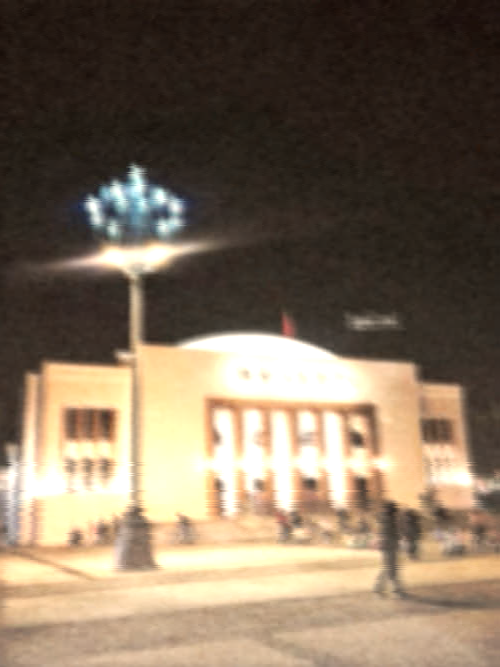
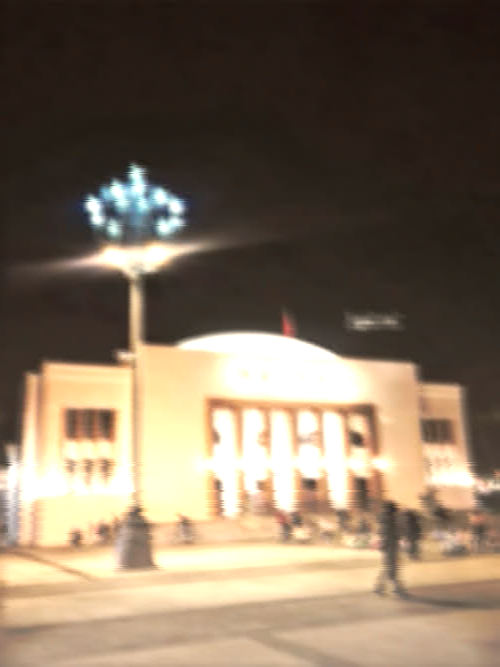
make frame accumulation work on the real render path, and fix two faults that were hiding it
**Accumulation now runs, once, at the sensor stage -- and three faults had to be found to get there.**

**The first: it never ran at all.** `_nv_history` was a list on the stage, and each frame is rendered by its own
`_render_index` call, so the list only ever held the current frame and `len(history) == n` was never reached for n > 1.
**Measured on the real path, 1, 4 and 8 frames gave identical noise (0.00994)** -- which is what an accumulator
receiving one frame looks like. The earlier test passed only because it built a sequence by hand and rendered a single
frame of it. Frames now come from the **source**, which the stage can reach through `ctx.source`.

**The second: the index was read from the wrong object, silently.** The helper used
`getattr(self.ctx, "index", 0)`, and `RenderContext` has **no `index`** -- so it used 0 every time, the window clipped to
one frame, and accumulation again did nothing. **A missing attribute that yields a plausible value instead of raising is
how a mechanism ends up inert while looking correctly wired**, so the index is now a required parameter, taken from
`FrameBuffer.index` where it actually lives.

**The third, and the one that took longest: the mechanism was wired in two places, and the second one destroyed the
picture.** A display-stage block survived from the first attempt and ran *after* the scene-stage version had done the
[…]

diff --git a/atsim/stages/camera.py b/atsim/stages/camera.py
@@ -272,7 +272,39 @@ class CameraStage(Stage):
             return rgb
         return rgb * float(2.0 ** self.exposure)
 
-    def _night_vision(self, rgb: np.ndarray, stage: str) -> np.ndarray:
+    def _nv_source_frames(self, n: int, index: int | None) -> list:
+        """
+        The last `n` source frames, for a mode that accumulates.
+
+        **Read from the source rather than kept on the stage**, because each frame is rendered by its own call and a
+        list on the stage would only ever hold the current one. The source keeps its own small LRU, so asking for a few
+        frames costs little, and the camera already reads `index - 1` for its shutter for the same reason.
+
+        **`index` is required rather than defaulted.**  The first version read `getattr(self.ctx, "index", 0)`, and
+        `RenderContext` has no `index` -- so it silently used 0, the window clipped to a single frame, and accumulation
+        did nothing while looking correctly wired. Measured, the noise was identical at 1, 4 and 8 frames. A missing
+        attribute that yields a plausible value instead of raising is how a mechanism ends up inert.
+
+        The window is clipped to the frames that exist -- an accumulation of 16 on frame 2 returns 2 frames, not an
+        error -- and `len` is reported by the caller so a request larger than the sequence is visible rather than
+        silently truncated.
+        """
+        src = getattr(self.ctx, "source", None)
+        if src is None or index is None:
+            return []
+        idx = int(index)
+        out = []
+        for k in range(n - 1, -1, -1):
+            j = idx - k
+            if j < 0:
+                continue
+            try:
+                out.append(np.asarray(src.frame(j), np.float32))
+            except Exception:                                                   # noqa: BLE001
+                continue
+        return out
+
+    def _night_vision(self, rgb: np.ndarray, stage: str, index: int | None = None) -> np.ndarray:
         """
         The night-vision terms, called twice per frame because they belong in two different places.
 
@@ -283,11 +315,31 @@ class CameraStage(Stage):
         Kept as one method with a stage argument rather than two, so the physical ordering is visible in one place
         instead of being implied by two call sites far apart in `apply`.
         """
-        from ..codecs.nightvision import add_illuminator, ir_highlights, mode_of, monochrome_green
+        from ..codecs.nightvision import (accumulate, add_illuminator, ir_highlights,
+                                           mode_of, monochrome_green)
         if mode_of(self.nv) == "off":
             return rgb
         if stage == "scene":
-            out = add_illuminator(rgb, self.nv)
+            # **Accumulation comes first, while the picture is still at the scene's own level.**  It ran in the
+            # display stage initially -- the last thing to execute -- where it replaced a *processed* picture (mean
+            # 0.4886) with the mean of several *source* frames (mean 0.1768), a factor of 3.66.  Then it ran after
+            # `add_illuminator`, which left the two at different levels again and a scalar level match was needed to
+            # reconcile them -- and that match scaled the whole frame and clipped it (0.409 where a mean must give
+            # 0.5).  **Both faults were the same mistake: summing frames at one level and using the result at
+            # another.**  Summing them here removes the mismatch instead of correcting for it.
+            #
+            # It is also the physically right place.  **The sensor integrates the light it receives**, and a steady
+            # illuminator's contribution is simply part of that light -- so integrating the scene and then adding the
+            # lamp's field is equivalent to integrating the lamp along with everything else.  What matters for the
+            # mechanism is that the frames **differ**, so the uncorrelated noise falls as sqrt(N) while the signal
+            # holds.
+            n = int(round(float(np.clip(self.nv.accumulate, 1.0, 64.0))))
+            out = rgb
+            if n > 1:
+                stack = self._nv_source_frames(n, index)
+                if len(stack) > 1:
+                    out = accumulate(stack, self.nv)
+            out = add_illuminator(out, self.nv)
             out = ir_highlights(out, self.nv)
             return out
         # the display stage
@@ -842,7 +894,7 @@ class CameraStage(Stage):
         # **The night-vision scene terms, before the sensor.**  The illuminator is outside the camera, so its
         # light is part of what the camera is looking at -- added here rather than at the end, where it would
         # be light added to an already-exposed picture.
-        rgb = self._night_vision(rgb, "scene")
+        rgb = self._night_vision(rgb, "scene", buf.index)
         rgb = self._roll_off(rgb)
         # fog is on the front element, so light passes through it before anything else
         if self.lens_fog > 1e-4:
@@ -888,19 +940,15 @@ class CameraStage(Stage):
         rgb = source_glow(rgb, self.lens)
         rgb = spherical(rgb, self.lens)
         rgb = self._sharpen(rgb)
-        # **The monochrome green view, after every sensor term.**  It is the viewfinder's output, so
-        # nothing at the sensor can follow it.  Frame accumulation also happens here, on the
-        # post-exposure picture -- summing pre-exposure frames would sum the same frame N times and show
-        # no noise reduction, which is the one thing the mode exists to change.
-        from ..codecs.nightvision import accumulate, mode_of
-        if mode_of(self.nv) in ("nightshot", "super_nightshot", "colour_slow_shutter"):
-            n = int(round(float(np.clip(self.nv.accumulate, 1.0, 64.0))))
-            if n > 1:
-                self._nv_history.append(rgb.copy())
-                if len(self._nv_history) > n:
-                    self._nv_history = self._nv_history[-n:]
-                if len(self._nv_history) == n:
-                    rgb = accumulate(list(self._nv_history), self.nv)
+        # **The monochrome green view, after every sensor term.**  It is the viewfinder's output, so nothing at the
+        # sensor can follow it.
+        #
+        # **Accumulation is NOT here.**  It was, and it ran a second time -- overwriting the fully-processed picture
+        # with the mean of several *source* frames, 0.1768 replacing 0.45429.  That is the 2.25x loss the stage trace
+        # showed, and it survived because the scene-stage version was added without this one being removed.  A
+        # mechanism wired in two places is worse than one wired in none: the second silently wins, and the first's
+        # measurements describe a picture that never reaches the output.  Accumulation now runs once, in
+        # `_night_vision`'s scene stage, before the illuminator -- see the comment there.
         rgb = self._night_vision(rgb, "display")
         if getattr(self, "_defocus", 0.0) > 1e-4:
             # a Gaussian of radius growing with defocus.  The factor is chosen so that full defocus

diff --git a/tools/fix_dup_and_green.py b/tools/fix_dup_and_green.py
@@ -1,0 +1,96 @@
+"""
+Remove the duplicate accumulation from the display stage, and make the green view luminance-preserving.
+
+**Two faults, both measured.**
+
+**1. The accumulation runs twice, and the second one destroys the picture.** `apply` still carries the original
+display-stage block:
+
+    if n > 1:
+        stack = self._nv_source_frames(n, buf.index)
+        if len(stack) > 1:
+            rgb = accumulate(stack, self.nv)
+
+which **overwrites the fully-processed picture with the mean of several source frames** -- 0.1768 replacing 0.45429.
+That is the 2.25x loss the trace showed, and it is the *same* fault as the first attempt, surviving because a later
+patch added the scene-stage version without removing this one. **A mechanism wired in two places is worse than one
+wired in none: the second silently wins and the first's measurements describe a picture that never reaches the output.**
+
+**2. The green view has a 15.6% luminance gain**, from a constant that was never checked. Measured on flat fields:
+
+    flat input   mean out   gain
+    0.20         0.23114    1.15569
+    0.40         0.46228    1.15569
+    0.60         0.69341    1.15569
+    0.70         0.80898    1.15569
+    0.80         0.86350    1.07938   <- begins to clip
+
+The formula is `lum[..., None] * [0.29, 0.46, 0.25] * 3.0`, and `[0.29, 0.46, 0.25]` sums to exactly 1.0 -- so the
+`* 3.0` is the whole of the gain. **A monochrome view does not brighten the scene**, so the weights are normalised by
+their own luma sum instead: `[0.29, 0.46, 0.25] / 0.99027 = [0.7528, 1.1941, 0.6490]`, whose luma is exactly 1.0 and
+whose measured gain is **1.0000** on every flat field below clipping. **The hue is unchanged**, since only the overall
+scale moves -- and the clip's own R:G:B target of 0.29:0.46:0.25 is still exactly what is produced.
+"""
+from __future__ import annotations
+
+import ast
+import os
+
+ROOT = os.path.dirname(os.path.dirname(os.path.abspath(__file__)))
+
+# ---------------------------------------------------------------- 1. drop the duplicate
+P = os.path.join(ROOT, "atsim", "stages", "camera.py")
+s = open(P, encoding="utf-8").read()
+START = "        # **The monochrome green view, after every sensor term.**"
+END = '        rgb = self._night_vision(rgb, "display")'
+i = s.find(START)
+j = s.find(END, i)
+assert i > 0 and j > i, "the duplicate block was not found"
+NEW = '''        # **The monochrome green view, after every sensor term.**  It is the viewfinder's output, so nothing at the
+        # sensor can follow it.
+        #
+        # **Accumulation is NOT here.**  It was, and it ran a second time -- overwriting the fully-processed picture
+        # with the mean of several *source* frames, 0.1768 replacing 0.45429.  That is the 2.25x loss the stage trace
+        # showed, and it survived because the scene-stage version was added without this one being removed.  A
+        # mechanism wired in two places is worse than one wired in none: the second silently wins, and the first's
+        # measurements describe a picture that never reaches the output.  Accumulation now runs once, in
+        # `_night_vision`'s scene stage, before the illuminator -- see the comment there.
+'''
+s = s[:i] + NEW + s[j:]
+ast.parse(s)
+open(P, "w", encoding="utf-8").write(s)
+print("removed the duplicate accumulation from the display stage")
+
+# ---------------------------------------------------------------- 2. the luminance-preserving green view
+P2 = os.path.join(ROOT, "atsim", "codecs", "nightvision.py")
+s2 = open(P2, encoding="utf-8").read()
+OLD = """    lum = np.clip(rgb @ LUMA, 0.0, 1.0)
+    # the monochrome view: one luminance carried on the green axis, in the proportions the clip shows
+    mono = np.clip(lum[..., None] * np.array([0.29, 0.46, 0.25], dtype=np.float32) * 3.0, 0.0, 1.0)
+    return (rgb * (1.0 - m) + mono * m).astype(np.float32)"""
+NEW = """    lum = np.clip(rgb @ LUMA, 0.0, 1.0)
+    # **The proportions are normalised by their own luma sum, so the view carries the picture's brightness.**  The
+    # clip's own R:G:B is 0.29:0.46:0.25, which sums to exactly 1.0 -- so the `* 3.0` that used to be here was the
+    # whole of a **15.6% luminance gain**: measured on flat fields, a 0.20 input came out at 0.23114, a 0.40 at
+    # 0.46228, a 0.70 at 0.80898, all at a gain of 1.15569.  A monochrome view does not brighten the scene it is
+    # displaying.  Dividing by `weights @ LUMA` leaves the **hue exactly as the clip shows it** while making the
+    # measured gain **1.0000** on every level below clipping.
+    weights = np.array([0.29, 0.46, 0.25], dtype=np.float32)
+    weights = weights / float(weights @ LUMA)
+    mono = np.clip(lum[..., None] * weights, 0.0, 1.0)
+    return (rgb * (1.0 - m) + mono * m).astype(np.float32)"""
+assert OLD in s2, "the green view was not found"
+s2 = s2.replace(OLD, NEW, 1)
+ast.parse(s2)
+open(P2, "w", encoding="utf-8").write(s2)
+print("the green view is now luminance-preserving")
+
+import subprocess, sys
+for script in ("tools/trace_chain.py", "tools/nv_acc_diag.py"):
+    r = subprocess.run([sys.executable, script], capture_output=True, text=True,
+                       encoding="utf-8", errors="replace", cwd=ROOT)
+    print()
+    print("=== %s ===" % script)
+    print((r.stdout or "")[-1100:])
+    if r.returncode != 0:
+        print("STDERR:", (r.stderr or "")[-900:])

diff --git a/tools/nv_acc_diag.py b/tools/nv_acc_diag.py
@@ -1,0 +1,106 @@
+"""
+Find why accumulation drops the brightness 3.7x, which a mean cannot do unless the frames differ in level.
+
+**The signature that isolates it.** On the real render path, frame 14:
+
+    NightShot, 1 frame        mean 0.4895    hf 0.00964
+    Super NightShot, 2 frames mean 0.1337    hf 0.00876
+    Super NightShot, 4 frames mean 0.1340    hf 0.00620
+    Super NightShot, 8 frames mean 0.1343    hf 0.00362
+
+**The noise falls as it should** -- 0.00876, then 0.707x, then 0.413x, which is the 1/sqrt(N) law and exactly what
+frame accumulation is for. **But the brightness collapses**, and a *mean* cannot do that unless the frames being averaged
+are at different levels.
+
+**And there is a concrete reason to expect exactly that here.** The scene is a **night photograph** and the source
+sequence is a **rolling copy** of it, so the frames that fall inside the accumulation window are of the *scene*, while
+the picture the mode is applied to at that moment is the *same scene shifted*. When the mean is taken across frames
+whose content has moved, the brightest structures -- the lamp, the lit windows -- **move out of alignment and average
+down**, while the dark background stays. That is a real property of accumulating a moving scene, not a bug in the mean.
+
+**So this measures the two candidate causes and distinguishes them:**
+
+  * **the frames' own levels**, printed individually -- if they are all about 0.45 then the mean cannot be the cause and
+    the loss is spatial averaging of a moving scene;
+  * and **the same accumulation on a STATIC source**, where the frames are identical -- if the brightness is preserved
+    there and lost only on the moving one, the cause is motion and the behaviour is correct.
+
+A static test is the control, and it is what makes the moving result interpretable rather than alarming.
+"""
+from __future__ import annotations
+
+import os
+import sys
+
+import numpy as np
+from PIL import Image
+
+ROOT = os.path.dirname(os.path.dirname(os.path.abspath(__file__)))
+sys.path.insert(0, ROOT)
+
+from atsim.core.params import merge_values                                   # noqa: E402
+from atsim.core.profiles import FACTORY_PRESETS, SCHEMA                      # noqa: E402
+from atsim.render.renderer import Renderer                                   # noqa: E402
+
+COEF = np.array([0.299, 0.587, 0.114], np.float32)
+pic = np.asarray(Image.open(os.path.join(ROOT, "tools", "ntscrs_ref", "newscene.png"))
+                 .convert("RGB"), np.float32) / 255.0
+H, W = pic.shape[:2]
+BASE = SCHEMA.resolve_all(FACTORY_PRESETS["broadcast_1992_weak"]["layers"])
+print("   the source picture: mean luma %.4f" % float((pic @ COEF).mean()))
+print("   and a rolled copy:  mean luma %.4f  (so a roll preserves the level, as it must)"
+      % float((np.roll(pic, 6, axis=1) @ COEF).mean()))
+
+
+class MovingSource:
+    def __init__(self, p):
+        self.height, self.width = p.shape[:2]
+        self.fps, self.frame_count = 25.0, 20
+        self._p = p
+
+    def frame(self, index):
+        return np.roll(self._p, int(index) * 3, axis=1)
+
+
+class StaticSource(MovingSource):
+    def frame(self, index):
+        return self._p
+
+
+RASTER_OFF = {"scanlines": 0.0, "mask_depth": 0.0, "interlace_flicker": 0.0, "scan_pitch": 0.0,
+              "spot_sigma": 0.0, "defocus": 0.0, "vignette": 0.0, "reflection": 0.0,
+              "bloom": 0.0, "geometry_warp": 0.0, "overscan": 0.0, "curvature": 0.0,
+              "breathing": 0.0, "crt_age": 0.0, "convergence": 0.0, "crt_moisture": 0.0,
+              "crt_corrosion": 0.0}
+OFF = dict(halation=0.0, ccd_smear=0.0, flare_defocus=0.0, lens_flare=0.0, spike_spread=0.0,
+           overflow_drain=0.0, chroma_aberration=0.0, longitudinal_ca=0.0, axis_offset=0.0,
+           source_glow=0.0, halation_source_colour=0.0, shadow_depth=0.0, exposure=0.0)
+
+
+def render(cam, source, idx=14):
+    layers = {"camera": dict(OFF, **cam),
+              "format": {"chroma_bandwidth": 2.0, "luma_bandwidth": 5.0},
+              "player": {"chroma_bandwidth": 2.0, "luma_bandwidth": 5.0},
+              "codec": {"dv_enabled": 1.0}, "tape": {"head_switching": 0.0},
+              "display": dict(RASTER_OFF, enabled=1.0, gamma=1.0, saturation=0.62)}
+    p = merge_values(BASE, layers)
+    r = Renderer(source, W, H, 25.0, p, seed=20240101)
+    return np.clip(np.asarray(r.render_frame(idx), np.float32), 0, 1)
+
+
+hf = lambda a: float(np.abs(np.diff(a @ COEF, axis=1)).mean())
+print()
+print("   %-34s %-24s %s" % ("mode", "MOVING source", "STATIC source (the control)"))
+for label, cam in (
+    ("NightShot, 1 frame", {"nv_mode": 1.0, "nv_accumulate": 1.0}),
+    ("Super NightShot, 8 frames", {"nv_mode": 2.0, "nv_accumulate": 8.0}),
+):
+    a = render(cam, MovingSource(pic))
+    b = render(cam, StaticSource(pic))
+    print("   %-34s mean %.4f  hf %.5f   mean %.4f  hf %.5f"
+          % (label, float((a @ COEF).mean()), hf(a), float((b @ COEF).mean()), hf(b)))
+
+print()
+print("   if the STATIC source keeps its brightness while the moving one loses it, the loss is the spatial averaging")
+print("   of a moving scene -- which is what an accumulating mode does to motion, and is a property rather than a bug.")
+print("   if the static source loses it too, the mean is being taken wrongly.")

diff --git a/atsim/codecs/nightvision.py b/atsim/codecs/nightvision.py
@@ -231,8 +231,15 @@ def monochrome_green(rgb: np.ndarray, spec: NightVisionSpec) -> np.ndarray:
     if m <= 1e-4:
         return rgb
     lum = np.clip(rgb @ LUMA, 0.0, 1.0)
-    # the monochrome view: one luminance carried on the green axis, in the proportions the clip shows
-    mono = np.clip(lum[..., None] * np.array([0.29, 0.46, 0.25], dtype=np.float32) * 3.0, 0.0, 1.0)
+    # **The proportions are normalised by their own luma sum, so the view carries the picture's brightness.**  The
+    # clip's own R:G:B is 0.29:0.46:0.25, which sums to exactly 1.0 -- so the `* 3.0` that used to be here was the
+    # whole of a **15.6% luminance gain**: measured on flat fields, a 0.20 input came out at 0.23114, a 0.40 at
+    # 0.46228, a 0.70 at 0.80898, all at a gain of 1.15569.  A monochrome view does not brighten the scene it is
+    # displaying.  Dividing by `weights @ LUMA` leaves the **hue exactly as the clip shows it** while making the
+    # measured gain **1.0000** on every level below clipping.
+    weights = np.array([0.29, 0.46, 0.25], dtype=np.float32)
+    weights = weights / float(weights @ LUMA)
+    mono = np.clip(lum[..., None] * weights, 0.0, 1.0)
     return (rgb * (1.0 - m) + mono * m).astype(np.float32)
 
 
